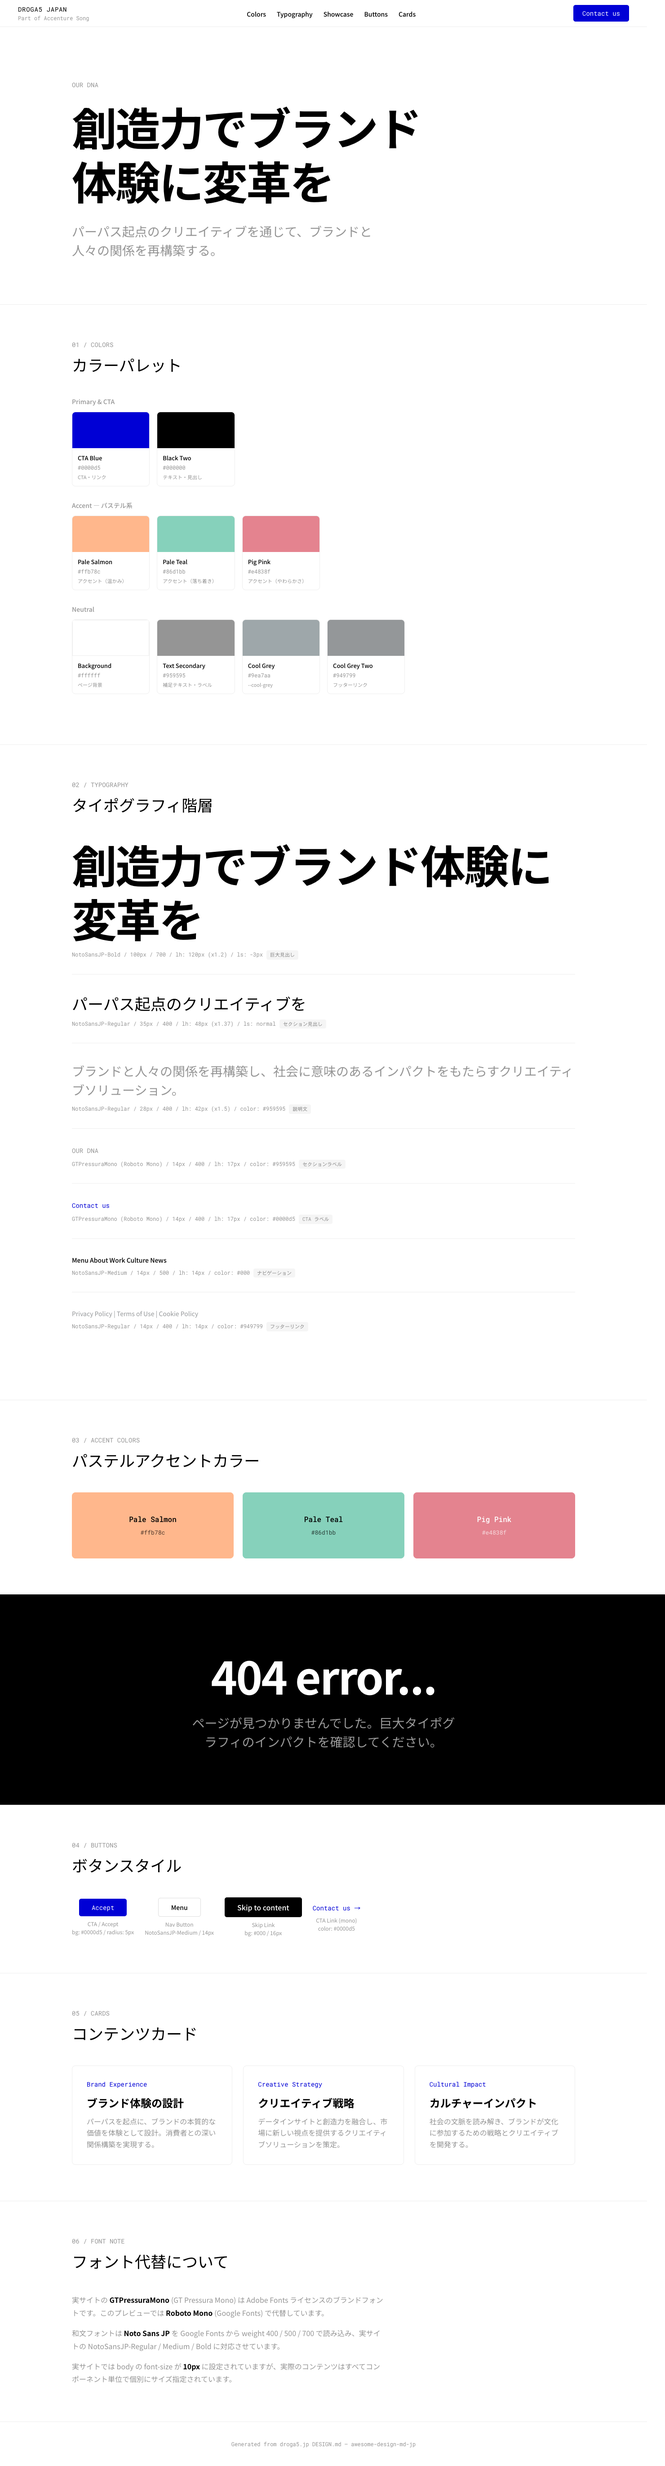
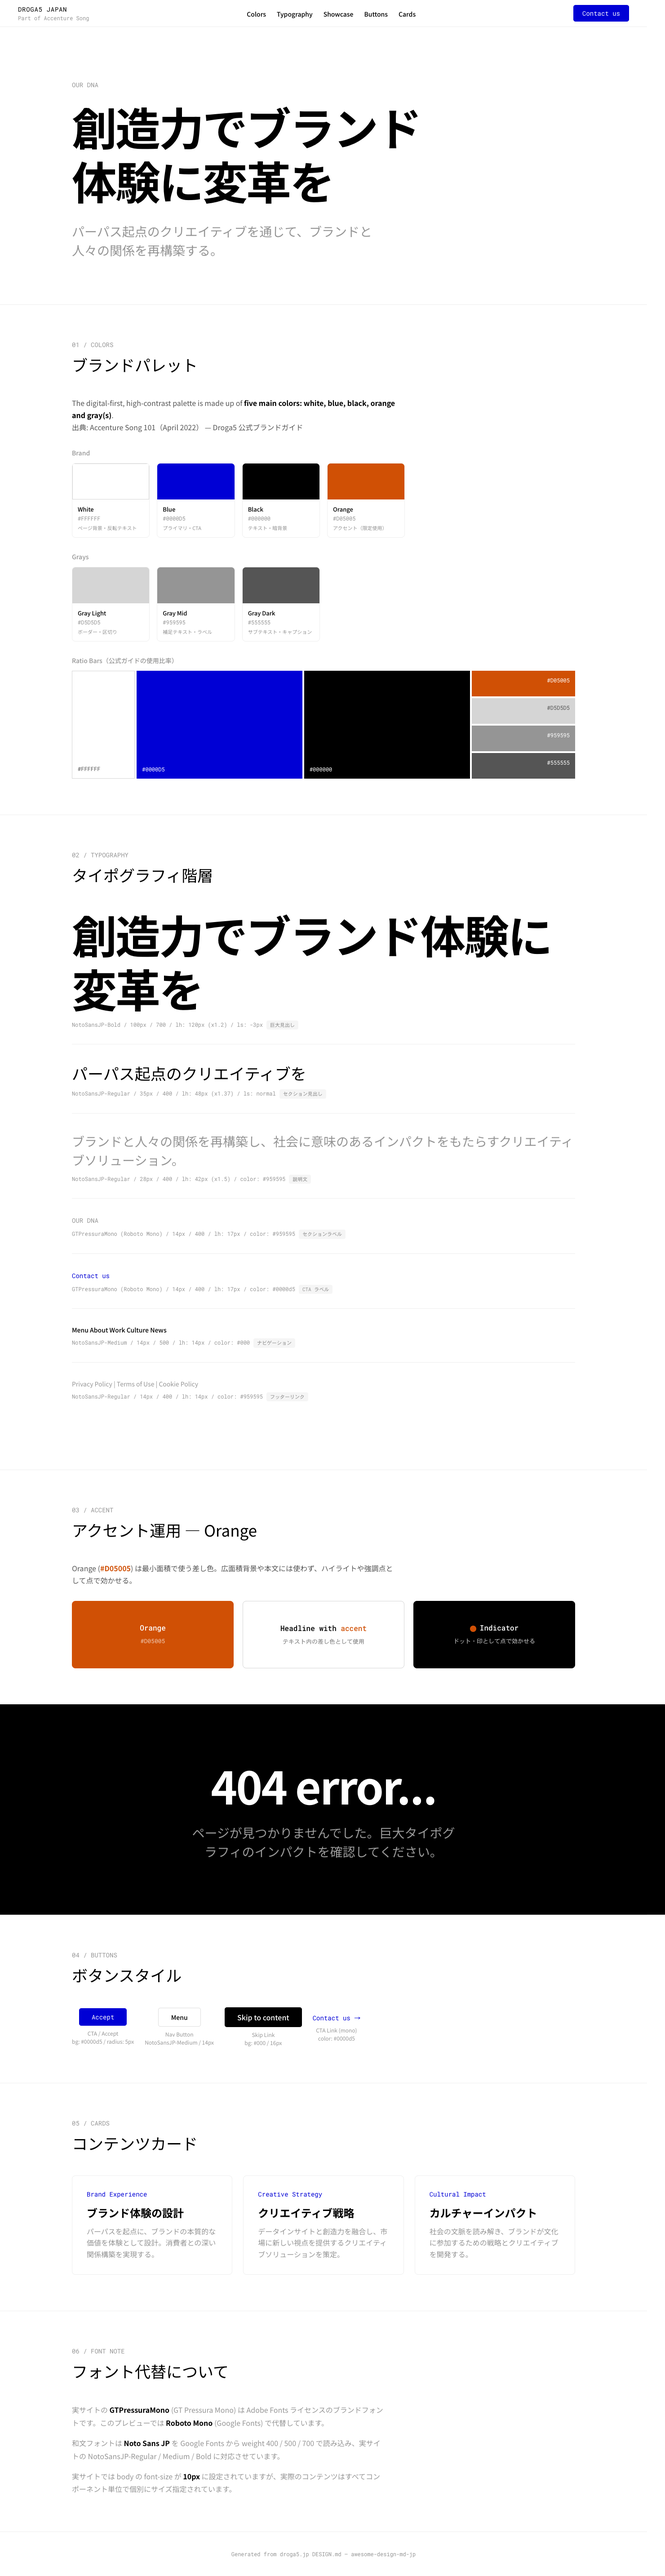
update: Droga5 のカラーパレットを Accenture Song 101 公式5色に刷新
サイト CSS から拾っていたパステル系（salmon/teal/pig-pink）は公式パレット外のため除外し、
ブランドガイド（April 2022）準拠の white / blue #0000D5 / black / orange #D05005 / grays
（#D5D5D5・#959595・#555555）に統一。preview.html に公式比率の Ratio Bars を追加。

diff --git a/design-md/droga5/preview.html b/design-md/droga5/preview.html
@@ -9,17 +9,21 @@
 <link href="https://fonts.googleapis.com/css2?family=Noto+Sans+JP:wght@400;500;700&family=Roboto+Mono:wght@400;500&display=swap" rel="stylesheet">
 <style>
   :root {
-    /* === Colors: CSS Custom Properties 実測値 === */
-    --cool-grey: #9ea7aa;
-    --cool-grey-two: #949799;
-    --pale-salmon: #ffb78c;
-    --pale-teal: #86d1bb;
-    --pig-pink: #e4838f;
-    --black-two: #000000;
-    --cta-blue: #0000d5;
-    --text-primary: #000000;
-    --text-secondary: #959595;
-    --bg-primary: #ffffff;
+    /* === Brand Palette (Accenture Song 101 / April 2022) === */
+    --brand-white:  #ffffff;
+    --brand-blue:   #0000d5;
+    --brand-black:  #000000;
+    --brand-orange: #d05005;
+    --gray-light:   #d5d5d5;
+    --gray-mid:     #959595;
+    --gray-dark:    #555555;
+    /* === Roles === */
+    --cta-blue: var(--brand-blue);
+    --text-primary: var(--brand-black);
+    --text-secondary: var(--gray-mid);
+    --text-sub: var(--gray-dark);
+    --border: var(--gray-light);
+    --bg-primary: var(--brand-white);
     /* === Fonts === */
     --font-display: "Noto Sans JP", sans-serif;
     --font-body: "Noto Sans JP", sans-serif;
@@ -244,27 +248,53 @@
 <!-- COLORS -->
 <section class="section" id="colors">
   <div class="section-label">01 / Colors</div>
-  <h2 class="section-title">カラーパレット</h2>
+  <h2 class="section-title">ブランドパレット</h2>
 
-  <div class="color-group-label">Primary & CTA</div>
+  <p style="font-family: var(--font-body); font-size: 16px; line-height: 1.7; color: var(--text-sub); max-width: 720px; margin-bottom: 32px;">
+    The digital-first, high-contrast palette is made up of <strong style="color: var(--text-primary);">five main colors: white, blue, black, orange and gray(s)</strong>.<br>
+    出典: Accenture Song 101（April 2022） — Droga5 公式ブランドガイド
+  </p>
+
+  <div class="color-group-label">Brand</div>
   <div class="color-grid">
-    <div class="color-swatch"><div class="color-swatch-block" style="background:#0000d5"></div><div class="color-swatch-info"><div class="color-swatch-name">CTA Blue</div><div class="color-swatch-hex">#0000d5</div><div class="color-swatch-role">CTA・リンク</div></div></div>
-    <div class="color-swatch"><div class="color-swatch-block" style="background:#000"></div><div class="color-swatch-info"><div class="color-swatch-name">Black Two</div><div class="color-swatch-hex">#000000</div><div class="color-swatch-role">テキスト・見出し</div></div></div>
+    <div class="color-swatch"><div class="color-swatch-block" style="background:#ffffff; border:1px solid #d5d5d5"></div><div class="color-swatch-info"><div class="color-swatch-name">White</div><div class="color-swatch-hex">#FFFFFF</div><div class="color-swatch-role">ページ背景・反転テキスト</div></div></div>
+    <div class="color-swatch"><div class="color-swatch-block" style="background:#0000d5"></div><div class="color-swatch-info"><div class="color-swatch-name">Blue</div><div class="color-swatch-hex">#0000D5</div><div class="color-swatch-role">プライマリ・CTA</div></div></div>
+    <div class="color-swatch"><div class="color-swatch-block" style="background:#000000"></div><div class="color-swatch-info"><div class="color-swatch-name">Black</div><div class="color-swatch-hex">#000000</div><div class="color-swatch-role">テキスト・暗背景</div></div></div>
+    <div class="color-swatch"><div class="color-swatch-block" style="background:#d05005"></div><div class="color-swatch-info"><div class="color-swatch-name">Orange</div><div class="color-swatch-hex">#D05005</div><div class="color-swatch-role">アクセント（限定使用）</div></div></div>
   </div>
 
-  <div class="color-group-label">Accent — パステル系</div>
+  <div class="color-group-label">Grays</div>
   <div class="color-grid">
-    <div class="color-swatch"><div class="color-swatch-block" style="background:#ffb78c"></div><div class="color-swatch-info"><div class="color-swatch-name">Pale Salmon</div><div class="color-swatch-hex">#ffb78c</div><div class="color-swatch-role">アクセント（温かみ）</div></div></div>
-    <div class="color-swatch"><div class="color-swatch-block" style="background:#86d1bb"></div><div class="color-swatch-info"><div class="color-swatch-name">Pale Teal</div><div class="color-swatch-hex">#86d1bb</div><div class="color-swatch-role">アクセント（落ち着き）</div></div></div>
-    <div class="color-swatch"><div class="color-swatch-block" style="background:#e4838f"></div><div class="color-swatch-info"><div class="color-swatch-name">Pig Pink</div><div class="color-swatch-hex">#e4838f</div><div class="color-swatch-role">アクセント（やわらかさ）</div></div></div>
+    <div class="color-swatch"><div class="color-swatch-block" style="background:#d5d5d5"></div><div class="color-swatch-info"><div class="color-swatch-name">Gray Light</div><div class="color-swatch-hex">#D5D5D5</div><div class="color-swatch-role">ボーダー・区切り</div></div></div>
+    <div class="color-swatch"><div class="color-swatch-block" style="background:#959595"></div><div class="color-swatch-info"><div class="color-swatch-name">Gray Mid</div><div class="color-swatch-hex">#959595</div><div class="color-swatch-role">補足テキスト・ラベル</div></div></div>
+    <div class="color-swatch"><div class="color-swatch-block" style="background:#555555"></div><div class="color-swatch-info"><div class="color-swatch-name">Gray Dark</div><div class="color-swatch-hex">#555555</div><div class="color-swatch-role">サブテキスト・キャプション</div></div></div>
   </div>
 
-  <div class="color-group-label">Neutral</div>
-  <div class="color-grid">
-    <div class="color-swatch"><div class="color-swatch-block" style="background:#fff; border:1px solid #eee"></div><div class="color-swatch-info"><div class="color-swatch-name">Background</div><div class="color-swatch-hex">#ffffff</div><div class="color-swatch-role">ページ背景</div></div></div>
-    <div class="color-swatch"><div class="color-swatch-block" style="background:#959595"></div><div class="color-swatch-info"><div class="color-swatch-name">Text Secondary</div><div class="color-swatch-hex">#959595</div><div class="color-swatch-role">補足テキスト・ラベル</div></div></div>
-    <div class="color-swatch"><div class="color-swatch-block" style="background:#9ea7aa"></div><div class="color-swatch-info"><div class="color-swatch-name">Cool Grey</div><div class="color-swatch-hex">#9ea7aa</div><div class="color-swatch-role">--cool-grey</div></div></div>
-    <div class="color-swatch"><div class="color-swatch-block" style="background:#949799"></div><div class="color-swatch-info"><div class="color-swatch-name">Cool Grey Two</div><div class="color-swatch-hex">#949799</div><div class="color-swatch-role">フッターリンク</div></div></div>
+  <div class="color-group-label">Ratio Bars（公式ガイドの使用比率）</div>
+  <div style="display: flex; height: 240px; gap: 4px; margin-top: 12px;">
+    <div style="flex: 0.6; background: #ffffff; border: 1px solid #d5d5d5; position: relative;">
+      <span style="position:absolute; bottom:12px; left:12px; font-family: var(--font-mono); font-size: 12px; color: #555;">#FFFFFF</span>
+    </div>
+    <div style="flex: 1.6; background: #0000d5; position: relative;">
+      <span style="position:absolute; bottom:12px; left:12px; font-family: var(--font-mono); font-size: 12px; color: #fff;">#0000D5</span>
+    </div>
+    <div style="flex: 1.6; background: #000000; position: relative;">
+      <span style="position:absolute; bottom:12px; left:12px; font-family: var(--font-mono); font-size: 12px; color: #fff;">#000000</span>
+    </div>
+    <div style="flex: 1; display: flex; flex-direction: column; gap: 4px;">
+      <div style="flex: 1; background: #d05005; position: relative;">
+        <span style="position:absolute; top:12px; right:12px; font-family: var(--font-mono); font-size: 12px; color: #fff;">#D05005</span>
+      </div>
+      <div style="flex: 1; background: #d5d5d5; position: relative;">
+        <span style="position:absolute; top:12px; right:12px; font-family: var(--font-mono); font-size: 12px; color: #555;">#D5D5D5</span>
+      </div>
+      <div style="flex: 1; background: #959595; position: relative;">
+        <span style="position:absolute; top:12px; right:12px; font-family: var(--font-mono); font-size: 12px; color: #fff;">#959595</span>
+      </div>
+      <div style="flex: 1; background: #555555; position: relative;">
+        <span style="position:absolute; top:12px; right:12px; font-family: var(--font-mono); font-size: 12px; color: #fff;">#555555</span>
+      </div>
+    </div>
   </div>
 </section>
 
@@ -306,29 +336,32 @@
   </div>
 
   <div class="type-sample">
-    <div style="font-family: var(--font-body); font-size:14px; font-weight:400; line-height:14px; color: #949799;">Privacy Policy  |  Terms of Use  |  Cookie Policy</div>
-    <div class="type-meta">NotoSansJP-Regular / 14px / 400 / lh: 14px / color: #949799<span class="type-context">フッターリンク</span></div>
+    <div style="font-family: var(--font-body); font-size:14px; font-weight:400; line-height:14px; color: #959595;">Privacy Policy  |  Terms of Use  |  Cookie Policy</div>
+    <div class="type-meta">NotoSansJP-Regular / 14px / 400 / lh: 14px / color: #959595<span class="type-context">フッターリンク</span></div>
   </div>
 </section>
 
 <hr class="section-divider">
 
-<!-- ACCENT COLORS SHOWCASE -->
+<!-- ACCENT SHOWCASE -->
 <section class="section">
-  <div class="section-label">03 / Accent Colors</div>
-  <h2 class="section-title">パステルアクセントカラー</h2>
+  <div class="section-label">03 / Accent</div>
+  <h2 class="section-title">アクセント運用 — Orange</h2>
+  <p style="font-family: var(--font-body); font-size: 16px; line-height: 1.7; color: var(--text-sub); max-width: 720px; margin-bottom: 32px;">
+    Orange (<strong style="color: #d05005;">#D05005</strong>) は最小面積で使う差し色。広面積背景や本文には使わず、ハイライトや強調点として点で効かせる。
+  </p>
   <div class="accent-grid">
-    <div class="accent-block" style="background: #ffb78c;">
-      <div class="accent-name">Pale Salmon</div>
-      <div class="accent-hex">#ffb78c</div>
+    <div class="accent-block" style="background: #d05005; color: #fff;">
+      <div class="accent-name">Orange</div>
+      <div class="accent-hex">#D05005</div>
     </div>
-    <div class="accent-block" style="background: #86d1bb;">
-      <div class="accent-name">Pale Teal</div>
-      <div class="accent-hex">#86d1bb</div>
+    <div class="accent-block" style="background: #fff; color: #000; border: 1px solid #d5d5d5;">
+      <div class="accent-name" style="color:#000;">Headline with <span style="color:#d05005;">accent</span></div>
+      <div class="accent-hex" style="color:#555;">テキスト内の差し色として使用</div>
     </div>
-    <div class="accent-block" style="background: #e4838f; color: #fff;">
-      <div class="accent-name">Pig Pink</div>
-      <div class="accent-hex">#e4838f</div>
+    <div class="accent-block" style="background: #000; color: #fff;">
+      <div class="accent-name"><span style="display:inline-block; width:14px; height:14px; background:#d05005; border-radius:50%; margin-right:8px; vertical-align:middle;"></span>Indicator</div>
+      <div class="accent-hex">ドット・印として点で効かせる</div>
     </div>
   </div>
 </section>

diff --git a/design-md/droga5/DESIGN.md b/design-md/droga5/DESIGN.md
@@ -10,41 +10,53 @@
 
 - **デザイン方針**: ミニマル・大胆なタイポグラフィ主導。巨大見出し + 余白で強い印象を与えるクリエイティブエージェンシーの定型
 - **密度**: 非常にゆったり。フルスクリーンのセクションに大きな文字を配置し、余白を贅沢に使う
-- **キーワード**: Bold Typography, Minimal, Pastel Accents, Creative, Purpose-driven
+- **キーワード**: Bold Typography, Minimal, High Contrast, Creative, Purpose-driven
 
 ---
 
 ## 2. Color Palette & Roles
 
-### CSS Custom Properties（実測値）
+> 出典: Accenture Song 101（April 2022）— Droga5 公式ブランドガイド。
+> "The digital-first, high-contrast palette we use is made up of five main colors: white, blue, black, orange and gray(s)."
+
+### Brand Palette（公式5色）
+
+| Role | Hex | 備考 |
+|------|-----|------|
+| White | `#FFFFFF` | ページ背景・暗背景上のテキスト |
+| Blue | `#0000D5` | プライマリ。CTA・リンク・キーカラー |
+| Black | `#000000` | テキスト・暗背景・見出し |
+| Orange | `#D05005` | アクセント。差し色として限定使用 |
+| Gray Light | `#D5D5D5` | ボーダー・薄い区切り |
+| Gray Mid | `#959595` | 補足テキスト・セクションラベル |
+| Gray Dark | `#555555` | サブテキスト・キャプション |
+
+### CSS Custom Properties
 
 ```css
---cool-grey: #9ea7aa;
---cool-grey-two: #949799;
---pale-salmon: #ffb78c;
---pale-teal: #86d1bb;
---pig-pink: #e4838f;
---black-two: #000000;
+--brand-white:  #ffffff;
+--brand-blue:   #0000d5;
+--brand-black:  #000000;
+--brand-orange: #d05005;
+--gray-light:   #d5d5d5;
+--gray-mid:     #959595;
+--gray-dark:    #555555;
 ```
 
-### Primary（ブランドカラー）
+### Roles
 
-- **Primary / CTA Blue** (`#0000d5`): CTA ボタン、リンクテキスト。鮮やかなブルー
-- **Primary Dark**: 明示なし（ホバー時は opacity 変化等を想定）
+- **Primary / CTA Blue** (`#0000D5`): CTA ボタン、リンクテキスト、ブランドキーカラー
+- **Accent Orange** (`#D05005`): 差し色。ハイライト・強調点。本文や広面積には使わない
+- **Text Primary** (`#000000`): 本文・見出し
+- **Text Secondary** (`#555555` / `#959595`): キャプション・補足・セクションラベル
+- **Border / Divider** (`#D5D5D5`): 薄い区切り線・ボーダー
+- **Background** (`#FFFFFF`): ページ背景
+- **Inverse Background** (`#000000`): ダーク反転背景。テキストは `#FFFFFF`
 
-### Accent（パステル系アクセント）
+### 使用比率
 
-- **Pale Salmon** (`#ffb78c`): アクセント。温かみのあるサーモンピンク
-- **Pale Teal** (`#86d1bb`): アクセント。落ち着いたティール
-- **Pig Pink** (`#e4838f`): アクセント。やわらかいピンク
-
-### Neutral（ニュートラル）
-
-- **Text Primary** (`#000000`): 本文テキスト（`--black-two`）
-- **Text Secondary** (`#959595`): 補足テキスト、セクションラベル、説明文
-- **Cool Grey** (`#9ea7aa` / `#949799`): フッターリンク、リージョン表記
-- **Background** (`#ffffff`): ページ背景
-- **Surface**: 明示的なカード背景の定義なし（白背景ベース）
+ブランドガイドのバー比は **Blue ≈ Black > Orange / Grays > White**。
+Blue と Black が支配的、Orange は最も小さい面積でアクセント運用。
 
 ---
 
@@ -223,16 +235,18 @@ font-feature-settings: "palt" 0; /* body では palt 無効（normal） */
 
 - 巨大な見出し（100px クラス）で visual impact を出す
 - letter-spacing: -3px で見出しを詰めてインパクトを強調する
-- パステル系アクセントカラー（salmon, teal, pink）をポイント使いする
-- GTPressuraMono をラベルやCTAに限定して使い、ブランド感を出す
+- 公式5色（white / blue / black / orange / grays）に絞ってハイコントラストを保つ
+- Orange (`#D05005`) は差し色として限定的に使う（広面積には使わない）
+- GTPressuraMono をラベルや CTA に限定して使い、ブランド感を出す
 - フォントは @font-face 名で指定する場合は必ず汎用フォールバックを含める
 
 ### Don't（禁止）
 
 - body の font-size: 10px をそのまま本文に使わない（コンポーネントで必ず上書き）
 - GTPressuraMono を本文に使わない（ラベル専用）
-- パステルカラーを背景全体に使わない（アクセントとして部分的に使用）
-- CTA Blue (`#0000d5`) を本文テキストに使わない（リンク・CTA 専用）
+- 公式パレット外の色（パステル系・追加アクセント）を勝手に持ち込まない
+- Orange を本文や広面積背景に使わない（あくまでアクセント）
+- CTA Blue (`#0000D5`) を本文テキストに使わない（リンク・CTA 専用）
 - 3つの Noto Sans JP ウェイトを混同しない（それぞれ独立した @font-face 名）
 
 ---
@@ -265,16 +279,19 @@ font-feature-settings: "palt" 0; /* body では palt 無効（normal） */
 ### クイックリファレンス
 
 ```
-Primary Color (CTA): #0000d5
-Text Color: #000000
-Text Secondary: #959595
-Background: #ffffff
-Accent Salmon: #ffb78c
-Accent Teal: #86d1bb
-Accent Pink: #e4838f
+# Brand Palette (Accenture Song 101 / April 2022)
+White:        #FFFFFF
+Blue (CTA):   #0000D5
+Black:        #000000
+Orange:       #D05005   ← アクセント。限定使用
+Gray Light:   #D5D5D5   ← ボーダー
+Gray Mid:     #959595   ← 補足テキスト
+Gray Dark:    #555555   ← サブテキスト
+
+# Typography
 Font (Display): "Noto Sans JP", sans-serif / 100px / 700 / ls: -3px
-Font (Body): "Noto Sans JP", sans-serif / 28px / 400
-Font (Mono Label): "Roboto Mono", monospace / 14px / 400
+Font (Body):    "Noto Sans JP", sans-serif / 28px / 400
+Font (Mono):    "Roboto Mono", monospace / 14px / 400
 Body Base Size: 10px (override per component)
 ```
 
@@ -282,12 +299,13 @@ Body Base Size: 10px (override per component)
 
 ```
 Droga5 のデザインシステムに従って、サービス紹介ページを作成してください。
-- ヒーロー見出し: "Noto Sans JP" 700 / 100px / line-height: 1.2 / letter-spacing: -3px
-- 説明文: "Noto Sans JP" 400 / 28px / line-height: 1.5 / color: #959595
+- カラー: 公式5色（white / blue #0000D5 / black / orange #D05005 / grays）のみ使用
+- ヒーロー見出し: "Noto Sans JP" 700 / 100px / line-height: 1.2 / letter-spacing: -3px / color: #000
+- 説明文: "Noto Sans JP" 400 / 28px / line-height: 1.5 / color: #555555
 - セクションラベル: "Roboto Mono" 400 / 14px / color: #959595 / 英字大文字
-- CTAボタン: background: #0000d5 / color: #fff / border-radius: 5px
-- アクセントカラー: #ffb78c, #86d1bb, #e4838f をポイント使い
-- 背景: #ffffff / テキスト: #000000
+- CTAボタン: background: #0000D5 / color: #FFFFFF / border-radius: 5px
+- アクセント: #D05005 を差し色として限定的に使用（広面積には使わない）
+- 背景: #FFFFFF / テキスト: #000000 / ボーダー: #D5D5D5
 ```
 
 ### GTPressuraMono 代替について
